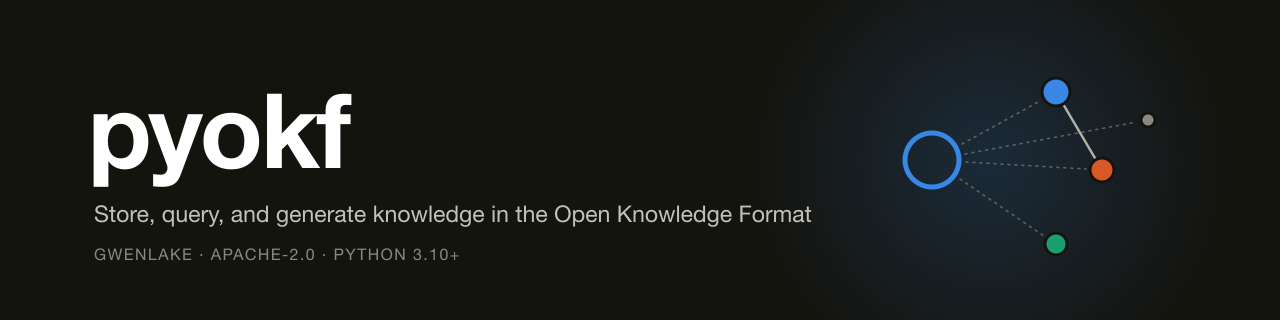
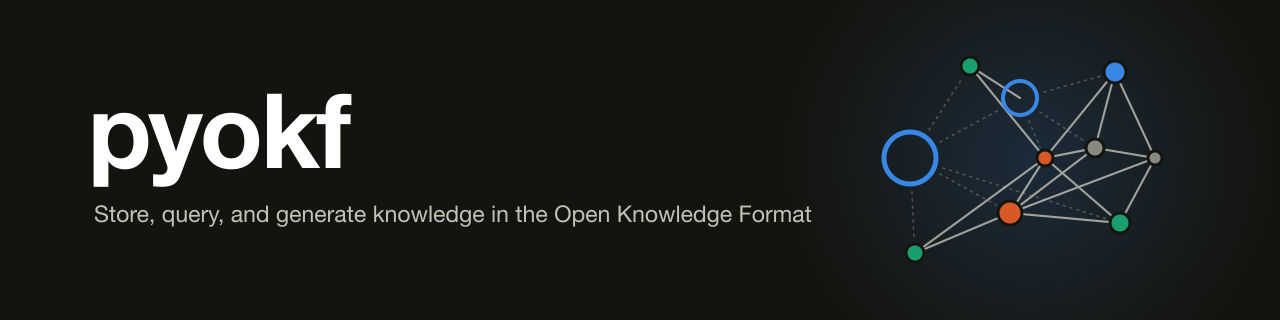
init

Changed region(s): [[0.6875, 0.1875, 0.9062, 0.8125], [0.0625, 0.7812, 0.375, 0.8125], [0.8125, 0.7188, 0.8438, 0.8125]]

diff --git a/AGENTS.md b/AGENTS.md
@@ -79,7 +79,7 @@ Everything lives in `tests/test_pyokf.py`, grouped by banner comment (core spec,
 
 ## Brand assets
 
-`assets/*.svg` are the sources; the committed `.png` files are what the README and GitHub use. Re-render with `rsvg-convert -w 1280 assets/banner.svg -o assets/banner.png` (same for `social.svg`) — never hand-edit a PNG. `banner.png` (1280×320) sits at the top of the README via a **relative** path, which GitHub rewrites and which therefore works while the repository is private — a `raw.githubusercontent.com` URL needs authentication and renders as a broken image there. The trade-off is PyPI: the README doubles as the long description and PyPI does not resolve relative paths, so switch that one line to the absolute raw URL when publishing (see Releasing). `social.png` (1280×640) is uploaded manually in the repo settings as the social preview; it is what LinkedIn and Slack show when the repo link is shared. Both reuse the graph view's palette and its visual grammar (hollow ring = folder, filled dot = concept, dotted = containment, solid = markdown link), so the artwork stays a picture of what the library actually does.
+`assets/*.svg` are the sources; the committed `.png` files are what the README and GitHub use. Re-render with `rsvg-convert -w 1280 assets/banner.svg -o assets/banner.png` (same for `social.svg`) — never hand-edit a PNG. `banner.png` (1280×320) sits at the top of the README via a **relative** path, which GitHub rewrites and which therefore works while the repository is private — a `raw.githubusercontent.com` URL needs authentication and renders as a broken image there. The trade-off is PyPI: the README doubles as the long description and PyPI does not resolve relative paths, so switch that one line to the absolute raw URL when publishing (see Releasing). `social.png` (1280×640) is uploaded manually in the repo settings as the social preview; it is what LinkedIn and Slack show when the repo link is shared, and it carries the wordmark alone. The banner's motif reuses the HTML view's palette and visual grammar — hollow ring = folder, filled dot = concept, dotted = containment, solid = markdown link — so the artwork stays a picture of what the library actually draws.
 
 ## Releasing
 
